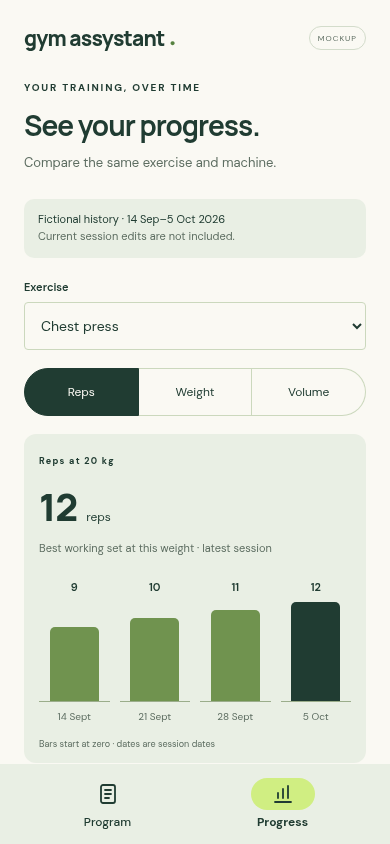
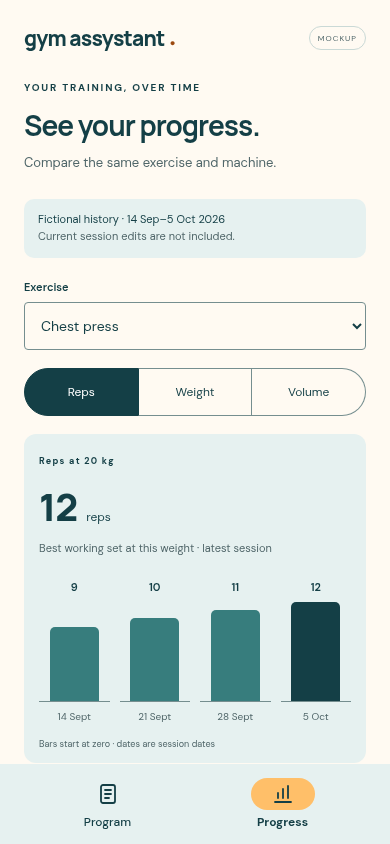
Apply research-informed amber and teal palette

diff --git a/mockup/style.css b/mockup/style.css
@@ -6,113 +6,130 @@
   --shape-large: 16px;
   --shape-extra-large: 28px;
   --shape-full: 999px;
-  --ink: #203c32;
-  --paper: #faf9f3;
-  --lime: #d0ee82;
-  --sage: #e9efe4;
-  --muted: #5e6e62;
+  /* GYM-013: research-informed role colors; exact hues remain design choices. */
+  --primary: #143f46;
+  --on-primary: #ffffff;
+  --accent: #ffbf69;
+  --surface: #fffaf2;
+  --surface-bright: #ffffff;
+  --surface-container: #e6f1f0;
+  --on-surface: #143f46;
+  --on-surface-variant: #51676a;
+  --outline: #758e8f;
+  --outline-variant: #cad9d6;
+  --success: #24665f;
+  --on-success: #ffffff;
+  --warmup-container: #fff0db;
+  --on-warmup: #624428;
+  --reps-container: #edf5f2;
+  --focus: #9b480f;
+  --background: #f6eedf;
+  --hover: #e6f1f080;
+  --chart: #377d7d;
+  --scrim: #143f46aa;
   font-family: 'DM Sans', sans-serif;
-  color: var(--ink);
-  background: #eaf0e4;
+  color: var(--on-surface);
+  background: var(--background);
   font-synthesis: none;
 }
 * { box-sizing: border-box; }
 body { margin: 0; min-height: 100vh; display: flex; justify-content: center; align-items: flex-start; gap: 100px; padding: 48px 32px; }
 button, input, select { font: inherit; }
 button { cursor: pointer; color: inherit; touch-action: manipulation; }
-button:focus-visible, input:focus-visible, select:focus-visible { outline: 3px solid #568240; outline-offset: 4px; }
+button:focus-visible, input:focus-visible, select:focus-visible { outline: 3px solid var(--focus); outline-offset: 4px; }
 button:disabled, input:disabled { opacity: .65; cursor: default; }
 .intro { width: 430px; min-height: 800px; display: flex; flex-direction: column; justify-content: space-between; padding: 30px 0; }
 .brand { font-family: Manrope, sans-serif; font-size: 34px; font-weight: 800; letter-spacing: -1.6px; }
-.brand span, .wordmark span { color: #568240; font-size: .45em; margin-left: 5px; }
+.brand span, .wordmark span { color: var(--focus); font-size: .45em; margin-left: 5px; }
 .eyebrow { font-size: 10px; font-weight: 800; letter-spacing: 1.8px; margin: 0 0 12px; }
 h1, h2, h3 { font-family: Manrope, sans-serif; }
 h1 { font-size: 53px; letter-spacing: -2.5px; line-height: 1.15; margin: 22px 0; }
 p { line-height: 1.6; }
-.intro p:not(.eyebrow) { color: var(--muted); }
+.intro p:not(.eyebrow) { color: var(--on-surface-variant); }
 .prototype { font-size: 10px; letter-spacing: 1.5px; }
 .prototype span { letter-spacing: 0; font-size: 12px; }
-.phone { display: flex; flex-direction: column; width: 420px; height: min(900px, calc(100dvh - 96px)); min-height: 620px; background: var(--paper); border-radius: 36px; padding: 24px 0 0; overflow: hidden; box-shadow: 0 25px 70px #20342c16; border: 7px solid white; flex-shrink: 0; }
+.phone { display: flex; flex-direction: column; width: 420px; height: min(900px, calc(100dvh - 96px)); min-height: 620px; background: var(--surface); border-radius: 36px; padding: 24px 0 0; overflow: hidden; box-shadow: 0 25px 70px #143f4616; border: 7px solid var(--surface-bright); flex-shrink: 0; }
 header { display: flex; align-items: center; justify-content: space-between; gap: 10px; margin-bottom: 0; padding: 0 24px 20px; flex-shrink: 0; }
 .wordmark { font-family: Manrope, sans-serif; font-size: 21px; font-weight: 800; letter-spacing: -.8px; white-space: nowrap; }
-.badge { border: 1px solid #d3dccb; border-radius: 20px; padding: 6px 8px; font-size: 8px; letter-spacing: 1px; color: var(--muted); }
+.badge { border: 1px solid var(--outline-variant); border-radius: 20px; padding: 6px 8px; font-size: 8px; letter-spacing: 1px; color: var(--on-surface-variant); }
 h2 { font-size: 28px; letter-spacing: -1px; line-height: 1.25; margin: 0 0 10px; }
 h3 { font-size: 15px; margin: 0; }
-.muted { font-size: 13px; color: var(--muted); margin: 0 0 25px; }
+.muted { font-size: 13px; color: var(--on-surface-variant); margin: 0 0 25px; }
 /* GYM-008, GYM-010, GYM-015: persistent Material-style bottom destinations. */
 .screen-area { min-height: 0; flex: 1; overflow-y: auto; padding: 8px 24px 24px; overscroll-behavior: contain; scrollbar-width: thin; }
-.main-nav { display: flex; flex-shrink: 0; min-height: 80px; padding: 8px 20px calc(8px + env(safe-area-inset-bottom, 0px)); background: var(--sage); }
+.main-nav { display: flex; flex-shrink: 0; min-height: 80px; padding: 8px 20px calc(8px + env(safe-area-inset-bottom, 0px)); background: var(--surface-container); }
 .main-nav button { flex: 1; display: flex; flex-direction: column; align-items: center; justify-content: center; gap: 4px; min-height: 64px; min-width: 48px; background: transparent; border: 0; border-radius: var(--shape-large); font-size: 12px; font-weight: 500; }
 .nav-icon { display: grid; place-items: center; width: 64px; height: 32px; border-radius: var(--shape-full); }
 .nav-icon svg { width: 24px; height: 24px; fill: none; stroke: currentColor; stroke-width: 1.8; stroke-linecap: round; stroke-linejoin: round; }
 .main-nav [aria-current="page"] { font-weight: 700; }
-.main-nav [aria-current="page"] .nav-icon { background: var(--lime); }
-.session-banner { background: var(--ink); color: white; border-radius: var(--shape-medium); padding: 25px 22px; margin: 25px 0 32px; position: relative; overflow: hidden; }
+.main-nav [aria-current="page"] .nav-icon { background: var(--accent); }
+.session-banner { background: var(--primary); color: var(--on-primary); border-radius: var(--shape-medium); padding: 25px 22px; margin: 25px 0 32px; position: relative; overflow: hidden; }
 .session-banner h3 { font-size: 24px; max-width: 220px; line-height: 1.3; letter-spacing: -.5px; }
-.session-banner .eyebrow { color: var(--lime); font-size: 9px; }
-.session-banner p { font-size: 11px; color: #e1ebd9; margin: 20px 0 0; }
-.banner-art { position: absolute; right: 12px; top: 40px; font-size: 85px; color: var(--lime); transform: rotate(-10deg); line-height: 1; }
+.session-banner .eyebrow { color: var(--accent); font-size: 9px; }
+.session-banner p { font-size: 11px; color: #d8e9e8; margin: 20px 0 0; }
+.banner-art { position: absolute; right: 12px; top: 40px; font-size: 85px; color: var(--accent); transform: rotate(-10deg); line-height: 1; }
 .section-heading { display: flex; align-items: center; justify-content: space-between; gap: 8px; margin: 24px 0 13px; font-size: 14px; }
-.section-heading span { font-size: 11px; color: var(--muted); }
-.exercise-card { display: flex; align-items: center; text-align: left; width: 100%; background: none; border: 0; border-bottom: 1px solid #dfe6d7; padding: 20px 0; gap: 15px; }
-.exercise-card:hover { background: #e9efe470; }
-.exercise-number { width: 43px; height: 49px; flex-shrink: 0; border-radius: 12px; background: var(--sage); display: grid; place-items: center; color: #4b6646; font-size: 14px; }
+.section-heading span { font-size: 11px; color: var(--on-surface-variant); }
+.exercise-card { display: flex; align-items: center; text-align: left; width: 100%; background: none; border: 0; border-bottom: 1px solid var(--outline-variant); padding: 20px 0; gap: 15px; }
+.exercise-card:hover { background: var(--hover); }
+.exercise-number { width: 43px; height: 49px; flex-shrink: 0; border-radius: 12px; background: var(--surface-container); display: grid; place-items: center; color: var(--primary); font-size: 14px; }
 .exercise-card strong { display: block; font-size: 14px; margin-bottom: 6px; }
-.exercise-card small { color: var(--muted); font-size: 11px; }
-.exercise-card .chevron { margin-left: auto; color: #4b6646; }
-.quiet-note { border-left: 2px solid #a6c47c; margin-top: 28px; padding-left: 13px; font-size: 12px; color: var(--muted); line-height: 1.7; }
-footer { font-size: 10px; text-align: center; color: var(--muted); margin-top: 32px; }
-.back { background: none; border: 0; padding: 0; min-height: 48px; color: #4d694a; font-size: 12px; margin: 0 0 18px; }
-.prescription { font-size: 12px; background: var(--sage); padding: 10px 12px; border-radius: 9px; margin: 14px 0 22px; }
-.seat-input { width: 100%; padding: 14px; border: 1px solid #d1dcc6; background: #f1f4e9; border-radius: 4px; color: var(--ink); font-size: 14px; }
-.field-help { font-size: 11px; color: var(--muted); margin: 8px 0 16px; }
+.exercise-card small { color: var(--on-surface-variant); font-size: 11px; }
+.exercise-card .chevron { margin-left: auto; color: var(--primary); }
+.quiet-note { border-left: 2px solid var(--accent); margin-top: 28px; padding-left: 13px; font-size: 12px; color: var(--on-surface-variant); line-height: 1.7; }
+footer { font-size: 10px; text-align: center; color: var(--on-surface-variant); margin-top: 32px; }
+.back { background: none; border: 0; padding: 0; min-height: 48px; color: var(--primary); font-size: 12px; margin: 0 0 18px; }
+.prescription { font-size: 12px; background: var(--surface-container); padding: 10px 12px; border-radius: 9px; margin: 14px 0 22px; }
+.seat-input { width: 100%; padding: 14px; border: 1px solid var(--outline); background: var(--surface-container); border-radius: 4px; color: var(--on-surface); font-size: 14px; }
+.field-help { font-size: 11px; color: var(--on-surface-variant); margin: 8px 0 16px; }
 /* GYM-004, GYM-009: repetitions have the largest input and first position. */
 .set-labels, .set-row { display: grid; grid-template-columns: 48px 1.2fr .85fr 48px; gap: 10px; align-items: center; text-align: center; }
-.set-labels { font-size: 10px; letter-spacing: 1px; color: var(--muted); margin-bottom: 9px; }
-.set-labels span:nth-child(2) { color: var(--ink); font-weight: 800; }
+.set-labels { font-size: 10px; letter-spacing: 1px; color: var(--on-surface-variant); margin-bottom: 9px; }
+.set-labels span:nth-child(2) { color: var(--on-surface); font-weight: 800; }
 .set-row { margin: 10px 0; font-size: 12px; }
-.set-row input { width: 100%; min-width: 0; height: 56px; border: 1px solid #d1dcc6; border-radius: 4px; text-align: center; background: white; padding: 9px 2px; color: var(--ink); font-size: 17px; }
-.set-row [data-field="reps"] { font-size: 25px; font-weight: 700; background: #edf4e5; }
-.set-row button { border: 1px solid #cbd8bd; border-radius: 50%; height: 48px; width: 48px; background: transparent; color: #48603c; }
-.set-row.complete button { background: var(--lime); border-color: var(--lime); color: var(--ink); }
-.set-row.complete input { border-color: #a0bb7e; }
+.set-row input { width: 100%; min-width: 0; height: 56px; border: 1px solid var(--outline); border-radius: 4px; text-align: center; background: var(--surface-bright); padding: 9px 2px; color: var(--on-surface); font-size: 17px; }
+.set-row [data-field="reps"] { font-size: 25px; font-weight: 700; background: var(--reps-container); }
+.set-row button { border: 1px solid var(--outline); border-radius: 50%; height: 48px; width: 48px; background: transparent; color: var(--primary); }
+.set-row.complete button { background: var(--success); border-color: var(--success); color: var(--on-success); }
+.set-row.complete input { border-color: var(--success); }
 /* GYM-014: warm-up and working rows share one list with explicit labels. */
 .set-kind { display: flex; flex-direction: column; align-items: center; gap: 4px; }
-.set-kind small { font-size: 8px; font-weight: 700; letter-spacing: .1px; color: var(--muted); }
+.set-kind small { font-size: 8px; font-weight: 700; letter-spacing: .1px; color: var(--on-surface-variant); }
 .set-kind b { font-size: 14px; }
-.warmup-row .set-kind { background: #e9e5d8; border-radius: 8px; padding: 7px 2px; }
-.warmup-row [data-field="reps"] { background: #f1ede2; }
+.warmup-row .set-kind small { color: var(--on-warmup); }
+.warmup-row .set-kind { background: var(--warmup-container); border-radius: 8px; padding: 7px 2px; }
+.warmup-row [data-field="reps"] { background: var(--warmup-container); }
 .set-toolbar { margin-bottom: 17px; }
-.small-button { font-size: 11px; font-weight: 600; border: 1px solid #cbd8bd; border-radius: var(--shape-full); background: var(--sage); padding: 9px 12px; min-height: 48px; }
-.remove-warmup { font-size: 10px; color: var(--muted); background: none; border: 0; min-height: 48px; padding: 3px; margin: -5px 0 4px 56px; }
+.small-button { font-size: 11px; font-weight: 600; border: 1px solid var(--outline); border-radius: var(--shape-full); background: var(--surface-container); padding: 9px 12px; min-height: 48px; }
+.remove-warmup { font-size: 10px; color: var(--on-surface-variant); background: none; border: 0; min-height: 48px; padding: 3px; margin: -5px 0 4px 56px; }
 /* GYM-009, GYM-012: timer controls sit at the top of the exercise screen. */
-.timer-panel { background: var(--sage); border-radius: var(--shape-medium); padding: 15px; margin: 0 0 24px; }
+.timer-panel { background: var(--surface-container); border-radius: var(--shape-medium); padding: 15px; margin: 0 0 24px; }
 .timer-tabs, .metric-tabs { display: flex; gap: 0; }
-.timer-tabs button, .metric-tabs button { flex: 1; background: transparent; border: 1px solid #cbd8bd; border-radius: 0; min-height: 48px; padding: 8px 5px; font-size: 12px; }
+.timer-tabs button, .metric-tabs button { flex: 1; background: transparent; border: 1px solid var(--outline); border-radius: 0; min-height: 48px; padding: 8px 5px; font-size: 12px; }
 .timer-tabs button:first-child, .metric-tabs button:first-child { border-radius: var(--shape-full) 0 0 var(--shape-full); }
 .timer-tabs button:last-child, .metric-tabs button:last-child { border-radius: 0 var(--shape-full) var(--shape-full) 0; }
 .timer-tabs button + button, .metric-tabs button + button { border-left: 0; }
-.timer-tabs [aria-pressed="true"], .metric-tabs [aria-pressed="true"] { background: var(--ink); color: var(--paper); border-color: var(--ink); }
+.timer-tabs [aria-pressed="true"], .metric-tabs [aria-pressed="true"] { background: var(--on-surface); color: var(--on-primary); border-color: var(--primary); }
 .timer-display { display: flex; align-items: center; gap: 12px; margin: 14px 0; }
 #timerValue { font-size: 35px; line-height: 1; font-weight: 700; font-variant-numeric: tabular-nums; }
-#timerStatus { font-size: 11px; color: var(--muted); }
+#timerStatus { font-size: 11px; color: var(--on-surface-variant); }
 .timer-actions { display: flex; gap: 9px; }
-.timer-actions button { min-height: 48px; border-radius: var(--shape-full); border: 1px solid #bdcdaa; padding: 8px 24px; background: transparent; font-size: 12px; }
-#timerToggle { background: var(--lime); border-color: var(--lime); font-weight: 700; flex: 1; }
+.timer-actions button { min-height: 48px; border-radius: var(--shape-full); border: 1px solid var(--outline); padding: 8px 24px; background: transparent; font-size: 12px; }
+#timerToggle { background: var(--accent); border-color: var(--accent); font-weight: 700; flex: 1; }
 .timer-panel .field-help { margin-bottom: 0; font-size: 10px; }
 #recoverySettings { display: flex; align-items: center; gap: 10px; margin: 10px 0 14px; }
 #recoverySettings label { font-size: 11px; flex: 1; }
-#recoverySeconds { width: 82px; border: 1px solid #cbd8bd; min-height: 48px; border-radius: 4px; background: white; padding: 8px; }
+#recoverySeconds { width: 82px; border: 1px solid var(--outline); min-height: 48px; border-radius: 4px; background: var(--surface-bright); padding: 8px; }
 /* GYM-002: secondary access below logging, warm-up, timers and machine setup. */
-.video-link { display: flex; align-items: center; gap: 10px; width: 100%; background: none; border: 0; border-top: 1px solid #dfe6d7; padding: 18px 0; margin-top: 20px; font-size: 12px; color: var(--muted); text-align: left; }
+.video-link { display: flex; align-items: center; gap: 10px; width: 100%; background: none; border: 0; border-top: 1px solid var(--outline-variant); padding: 18px 0; margin-top: 20px; font-size: 12px; color: var(--on-surface-variant); text-align: left; }
 .video-link span:last-child { margin-left: auto; }
 /* GYM-010: readable raw observations and zero-baseline workload/performance chart. */
-.sample-notice { padding: 12px 14px; border-radius: 10px; background: var(--sage); font-size: 11px; line-height: 1.6; margin-bottom: 22px; }
-.sample-notice span { color: var(--muted); }
+.sample-notice { padding: 12px 14px; border-radius: 10px; background: var(--surface-container); font-size: 11px; line-height: 1.6; margin-bottom: 22px; }
+.sample-notice span { color: var(--on-surface-variant); }
 .select-label { display: block; font-size: 11px; font-weight: 600; margin-bottom: 8px; }
-select { width: 100%; padding: 12px; color: var(--ink); border: 1px solid #cbd8bd; border-radius: 4px; background: var(--paper); font-size: 14px; }
+select { width: 100%; padding: 12px; color: var(--on-surface); border: 1px solid var(--outline); border-radius: 4px; background: var(--surface); font-size: 14px; }
 .metric-tabs { margin: 18px 0; }
-.chart-card { background: var(--sage); padding: 20px 15px 12px; border-radius: var(--shape-medium); }
+.chart-card { background: var(--surface-container); padding: 20px 15px 12px; border-radius: var(--shape-medium); }
 .chart-card .eyebrow { font-size: 9px; letter-spacing: 1.3px; }
 .metric-head { display: flex; align-items: baseline; gap: 9px; }
 .metric-head strong { font-family: Manrope, sans-serif; font-size: 38px; font-weight: 800; letter-spacing: -1px; }
@@ -120,23 +137,23 @@ select { width: 100%; padding: 12px; color: var(--ink); border: 1px solid #cbd8b
 .chart { display: flex; gap: 10px; align-items: flex-end; margin-top: 22px; }
 .chart-column { flex: 1; min-width: 0; text-align: center; }
 .chart-number { display: block; font-size: 11px; font-weight: 600; margin-bottom: 8px; font-variant-numeric: tabular-nums; }
-.bar-track { height: 100px; display: flex; align-items: flex-end; justify-content: center; border-bottom: 1px solid #9bad8b; }
-.chart-bar { width: 70%; background: #70934f; border-radius: 5px 5px 0 0; }
-.chart-column:last-child .chart-bar { background: var(--ink); }
-.chart-date { display: block; font-size: 10px; margin-top: 8px; color: var(--muted); white-space: nowrap; }
-.chart-baseline { color: var(--muted); font-size: 9px; margin: 14px 0 0; }
+.bar-track { height: 100px; display: flex; align-items: flex-end; justify-content: center; border-bottom: 1px solid var(--outline); }
+.chart-bar { width: 70%; background: var(--chart); border-radius: 5px 5px 0 0; }
+.chart-column:last-child .chart-bar { background: var(--on-surface); }
+.chart-date { display: block; font-size: 10px; margin-top: 8px; color: var(--on-surface-variant); white-space: nowrap; }
+.chart-baseline { color: var(--on-surface-variant); font-size: 9px; margin: 14px 0 0; }
 .stat-row { display: flex; align-items: center; justify-content: space-between; padding: 20px 0 12px; font-size: 12px; gap: 15px; }
 .stat-row strong { font-size: 23px; }
-dialog { border: 0; border-radius: var(--shape-extra-large); padding: 25px; width: min(380px, calc(100% - 32px)); color: var(--ink); background: var(--paper); box-shadow: 0 20px 80px #0004; }
-dialog::backdrop { background: #172b23aa; backdrop-filter: blur(5px); }
+dialog { border: 0; border-radius: var(--shape-extra-large); padding: 25px; width: min(380px, calc(100% - 32px)); color: var(--on-surface); background: var(--surface); box-shadow: 0 20px 80px #0004; }
+dialog::backdrop { background: var(--scrim); backdrop-filter: blur(5px); }
 dialog h2 { font-size: 24px; }
 dialog p { font-size: 13px; }
-.video-placeholder { background: var(--ink); border-radius: 13px; color: var(--lime); text-align: center; padding: 30px 10px; margin-bottom: 23px; }
+.video-placeholder { background: var(--on-surface); border-radius: 13px; color: var(--accent); text-align: center; padding: 30px 10px; margin-bottom: 23px; }
 .video-placeholder span { font-size: 48px; }
 .video-placeholder p { font-size: 10px; letter-spacing: 2px; }
 [hidden] { display: none !important; }
 @media (max-width: 1000px) { body { gap: 40px; } .intro { width: 300px; } h1 { font-size: 41px; } .brand { font-size: 28px; } }
-@media (max-width: 780px) { body { padding: 0; background: var(--paper); } .intro { display: none; } .phone { width: 100%; max-width: 430px; height: 100dvh; min-height: 0; border: 0; border-radius: 0; box-shadow: none; padding: 24px 0 0; } }
+@media (max-width: 780px) { body { padding: 0; background: var(--surface); } .intro { display: none; } .phone { width: 100%; max-width: 430px; height: 100dvh; min-height: 0; border: 0; border-radius: 0; box-shadow: none; padding: 24px 0 0; } }
 @media (max-width: 350px) { .screen-area { padding-inline: 16px; } header { padding-inline: 16px; } .wordmark { font-size: 19px; } h2 { font-size: 25px; } .set-row, .set-labels { gap: 6px; } }
 
 /* GYM-015: visible pressed states and minimum target widths. */
@@ -144,3 +161,4 @@ button { min-width: 48px; }
 button:active { filter: brightness(.94); }
 /* GYM-015: input and selection controls retain Android-size touch areas. */
 input, select { min-height: 48px; }
+input::placeholder { color: var(--on-surface-variant); opacity: 1; }

diff --git a/docs/branding-research.md b/docs/branding-research.md
@@ -16,12 +16,41 @@ This focused review searched PubMed and original research repositories for self-
 
 ## Chosen identity
 
-- **Name:** gym assystant. A lowercase wordmark with a small lime dot keeps the existing requested name friendly and legible.
+- **Name:** gym assystant. A lowercase wordmark with a small amber dot keeps the existing requested name friendly and legible.
 - **Promise:** Your pace. Your progress.
 - **Personality:** capable, warm, direct. Helpful language, concise instructions, factual feedback.
-- **Palette:** evergreen `#203c32` for text and primary structure; warm chalk `#faf9f3` for surfaces; spring lime `#d0ee82` for selected controls and completion; muted sage `#e9efe4` for quiet panels. These are aesthetic decisions, not scientifically proven motivators. Text contrast and focus visibility take priority over decorative color.
+- **Palette:** sunrise amber `#ffbf69` for start actions and selected navigation; deep teal `#143f46` for text and structure; ivory `#fffaf2` for the main surface; pale aqua `#e6f1f0` for timer and progress panels. Completed sets use teal `#24665f` with white checkmarks, and warm-ups use a soft apricot tint. The color-emotion literature informs this direction; the exact values are design choices, not experimentally validated exercise motivators. See the palette rationale below.
 - **Typography:** Manrope headings and DM Sans body/numerals, with local system-font fallbacks. Prominent reps and tabular timer digits support quick reading. External font loading is optional.
 - **Shape:** soft corners, generous spacing, restrained upward arrows. No animated urgency, physique photography, or ideal-body comparison.
+
+## Palette rationale — updated color research
+
+The goal is to make entering a workout feel welcoming and the next action clear. A warmer accent replaces the earlier lime/sage direction, while calm surfaces keep dense rep logging readable. The app's supportive language and user control remain the more directly supported motivational mechanisms.
+
+| Source | Relevant finding | Application and limit |
+| --- | --- | --- |
+| [Jonauskaite & Mohr, 2025 — systematic review of color and emotion](https://link.springer.com/article/10.3758/s13423-024-02615-z) | Reviewed 132 articles with 42,266 participants across 64 countries. Yellow/orange tended to correspond with positive high-arousal emotions; blue/green/blue-green with positive low-arousal emotions. Lightness and saturation also mattered. | Warm amber emphasizes a welcoming next action; pale teal supports quiet logging/recovery. Most studies measured abstract associations, not induced emotion or gym attendance. These UI applications are design inferences. |
+| [Jonauskaite et al., 2020 — associations across 30 nations](https://pubmed.ncbi.nlm.nih.gov/32900287/) | In 4,598 participants, color-emotion patterns showed shared features and variation related to geography/language. Yellow and orange were associated with joy; orange also with amusement. | Use a warm, positive accent while treating personal preference as relevant. A category association does not validate a particular hex code or predict an individual's response. |
+| [Elliot, 2015 — color-in-context review](https://www.frontiersin.org/journals/psychology/articles/10.3389/fpsyg.2015.00368/full) | Color effects depend on context; methodological limitations restrict strong applied conclusions. Hue, lightness, chroma, and viewing conditions are intertwined. | Apply color consistently with the action's meaning and test the whole interface. Avoid claims that one color inherently produces motivation, trust, or increased performance. |
+
+Supplementary search on 12 October 2026 used “color emotion systematic review”, “Jonauskaite yellow orange joy”, and “color psychology context exercise motivation”. The focused search did not establish that changing an exercise app's palette increases gym attendance. No attendance effect size or causal claim is assigned to this palette.
+
+| Role | Color | UI use |
+| --- | --- | --- |
+| Action accent | Sunrise amber `#ffbf69` | Timer start/resume, selected bottom destination, program accent |
+| Main content | Deep teal `#143f46` | Headings, numbers, active segmented choices, program card |
+| Main surface | Ivory `#fffaf2` | Screen background and dialog |
+| Quiet surface | Pale aqua `#e6f1f0` | Timer, progress card, prescription |
+| Completed action | Teal `#24665f` + white | Done working/warm-up sets; always accompanied by check and pressed state |
+| Warm-up context | Apricot `#fff0db` | Warm-up label and rep field, with explicit text label |
+| Supporting text | Slate teal `#51676a` | Helper copy and secondary video access |
+| Focus | Burnt amber `#9b480f` | Visible keyboard focus and small brand dot |
+
+Use warm accents sparingly around actions, a light base, and teal for readable numbers. Completion uses its own semantic role instead of sharing the action accent. Warm-up and completion are still identifiable by text and state, not color alone. Android component shapes and minimum target sizes are preserved.
+
+### Palette verification
+
+Calculated sRGB contrast for the applied role pairs: main text on ivory 11.05:1; helper text on ivory 5.78:1 and pale aqua 5.20:1; deep teal on amber 7.06:1; white on completed-set teal 6.69:1; control outlines on pale aqua 3.02:1. These calculations check the specified pairs, not full accessibility conformance. The existing browser checks passed and refreshed mobile/desktop screenshots were visually reviewed.
 
 ## Applied voice
 

diff --git a/docs/spec.md b/docs/spec.md
@@ -22,7 +22,7 @@ Follow a training program made of multiple training sessions. During each sessio
 | GYM-010 | Show training performance statistics. | A Progress view lets the user select an exercise and metric. Show dated history for best reps at a fixed weight, heaviest weight at exactly 10 reps, and volume load; also show completed working-set count for the displayed period. Values are computed from explicit fictional completed logs, not hardcoded chart labels. No comparable data means a gap, not zero. Details and comparison rules appear below. |
 | GYM-011 | Research progression metrics before finalizing analytics. | A linked literature brief distinguishes outcomes, workload, and consistency; cites original research and evidence syntheses; records limitations, formulas, and proposed versus included metrics. Research recommendations do not automatically authorize features. |
 | GYM-012 | Time execution and recovery separately. | Execution counts up; recovery counts down from a user-editable whole number of seconds (1–3600; default 90). Each has start/resume, pause, and reset. Recovery stops at zero and announces completion. Timers use elapsed clock time, retain independent state when switching modes/views, and belong to the selected exercise occurrence. Reload resets them. No automatic set completion or automatic transition. |
-| GYM-013 | Use an inviting, evidence-informed brand. | Retain the exact name gym assystant. Use the promise “Your pace. Your progress.”, clear next actions, personal progress feedback, and neutral language for rest or unfinished sets. Apply the palette, wordmark, and tone documented in branding-research.md. No shame, body-transformation promises, streak pressure, or unsupported claims that colors increase exercise adherence. |
+| GYM-013 | Use an inviting, evidence-informed brand. | Retain the exact name gym assystant. Use the promise “Your pace. Your progress.”, clear next actions, personal progress feedback, and neutral language for rest or unfinished sets. Apply the sunrise-amber, deep-teal, and ivory palette, wordmark, and tone documented in branding-research.md. Warm accents emphasize action, calmer teal surfaces support logging/recovery, and text/control contrast remains readable. No shame, body-transformation promises, streak pressure, or unsupported claims that colors increase exercise adherence. |
 | GYM-014 | Track warm-up reps alongside working sets. | Add/remove warm-up sets; edit nonnegative whole-number reps and nonnegative finite kg; mark each done/undone. Show warm-up and working sets together in one list, with a visible type label on every row. Keep their data distinct, retain them when navigating, and exclude warm-ups from working-set completion, records, and all GYM-010 metrics. |
 | GYM-015 | Follow Android Material 3 UI conventions. | Use consistent shape tokens, pill-shaped action buttons, joined segmented selectors, rounded cards and dialog, an icon-and-label bottom navigation bar with a selected indicator, and at least 48 × 48 CSS-pixel touch areas in the phone mockup. Keep navigation outside the scrolling content. Real Android delivery must use dp and native Material components. Document official guidance in android-ui.md. |
 

diff --git a/docs/traceability.md b/docs/traceability.md
@@ -16,7 +16,7 @@ Revision 2. All Android delivery is **not started**. “Covered” below means t
 | GYM-010 | `metrics.js`: `series`, `countSets`; `data.js`: historical records/context; `app.js`: `renderProgress`; `index.html`: progress | Logic: exact expected metrics, comparison filters, gaps, warm-up exclusion; browser: selectors/current edits excluded | Fictional historical statistics covered; real persistence deferred |
 | GYM-011 | [progression-research.md](progression-research.md) | Literature review: eight original studies/reviews with limitations and proposed/included metrics | Research delivered |
 | GYM-012 | `timers.js`: timer state/actions; `app.js`: `renderTimer`, interval/actions; `index.html`: timer panel | Logic: pause/resume/reset, expiry/background catch-up, independence, bounds; browser: both timer modes/completion | Covered; native background/alerts deferred |
-| GYM-013 | [branding-research.md](branding-research.md); wordmarks/copy in `index.html`, theme in `style.css`, timer copy in `app.js` | Five psychological sources; screenshot/copy review | Brand direction delivered and applied |
+| GYM-013 | [branding-research.md](branding-research.md); wordmarks/copy in `index.html`, theme in `style.css`, timer copy in `app.js` | Five exercise/motivation sources plus three color/emotion sources; screenshot/copy and color-contrast review | Brand direction delivered and applied |
 | GYM-014 | `app.js`: `setRow`, `renderSets`, add/remove/update/toggle warmups; CSS: labeled warm-up rows; `metrics.js`: exclusion | Browser: shared list, labels, retained reps/weight, add/remove, count isolation; logic: warmups excluded | Covered |
 | GYM-015 | [android-ui.md](android-ui.md); CSS theme/target/nav/selector rules; `index.html`: bottom nav; `app.js`: `showView` | Official Android sources; browser: navigation stays at bottom, interactive targets ≥48px | Material-style browser approximation; native UI deferred |
 
@@ -45,3 +45,5 @@ No e1RM, RIR-entry, adherence, scheduling, history saving, notifications, streak
 Revision 1, 2026-10-12: the original session-only mockup passed syntax and browser checks. That record does not validate the revised program workflow.
 
 Revision 2, 2026-10-12: eight logic tests passed for numerical metrics, matched contexts, missing data, warm-up exclusion, and timer semantics. The Chromium browser check passed for program/session navigation, working and warm-up logging, validation, timers, secondary video, progress selection, state isolation, 320/390/430px layouts, persistent bottom navigation, minimum touch targets, and reload reset. Program, exercise, progress, and desktop screenshots were reviewed. These checks validate the browser mockup only.
+
+Palette update, 2026-10-12: GYM-013 now uses sunrise amber, deep teal, and ivory, informed by the 2025 systematic review and two supporting color studies/reviews. Checked text pairs exceed 4.5:1 and essential outline/chart pairs exceed 3:1. Existing Chromium checks passed; all four preview screenshots were refreshed. No functional scope was added.

diff --git a/docs/android-ui.md b/docs/android-ui.md
@@ -2,7 +2,7 @@
 
 Checked against official guidance on 12 October 2026. This browser mockup approximates Material 3; it is not a native Android implementation or a claim of complete platform compliance.
 
-Android defines Material 3 around color, typography, shapes, and standard components. A coherent branded theme can customize these together. The current evergreen/lime theme follows this approach. [Android: Material 3 in Compose](https://developer.android.com/develop/ui/compose/designsystems/material3)
+Android defines Material 3 around color, typography, shapes, and standard components. A coherent branded theme can customize these together. The current sunrise-amber/deep-teal theme follows this approach. [Android: Material 3 in Compose](https://developer.android.com/develop/ui/compose/designsystems/material3)
 
 Use filled or tonal actions for timer start/resume and adding warm-ups, lower-emphasis actions for reset and video, joined segmented controls for timer/metric choices, and consistent rounded card/dialog containers. The mockup uses a theme scale of 8, 12, 16, and 28 CSS pixels plus fully rounded action buttons. These are selected theme values, not a claim that every component must have one universal radius. [Android: Material components](https://developer.android.com/design/ui/mobile/guides/components/material-overview)
 
